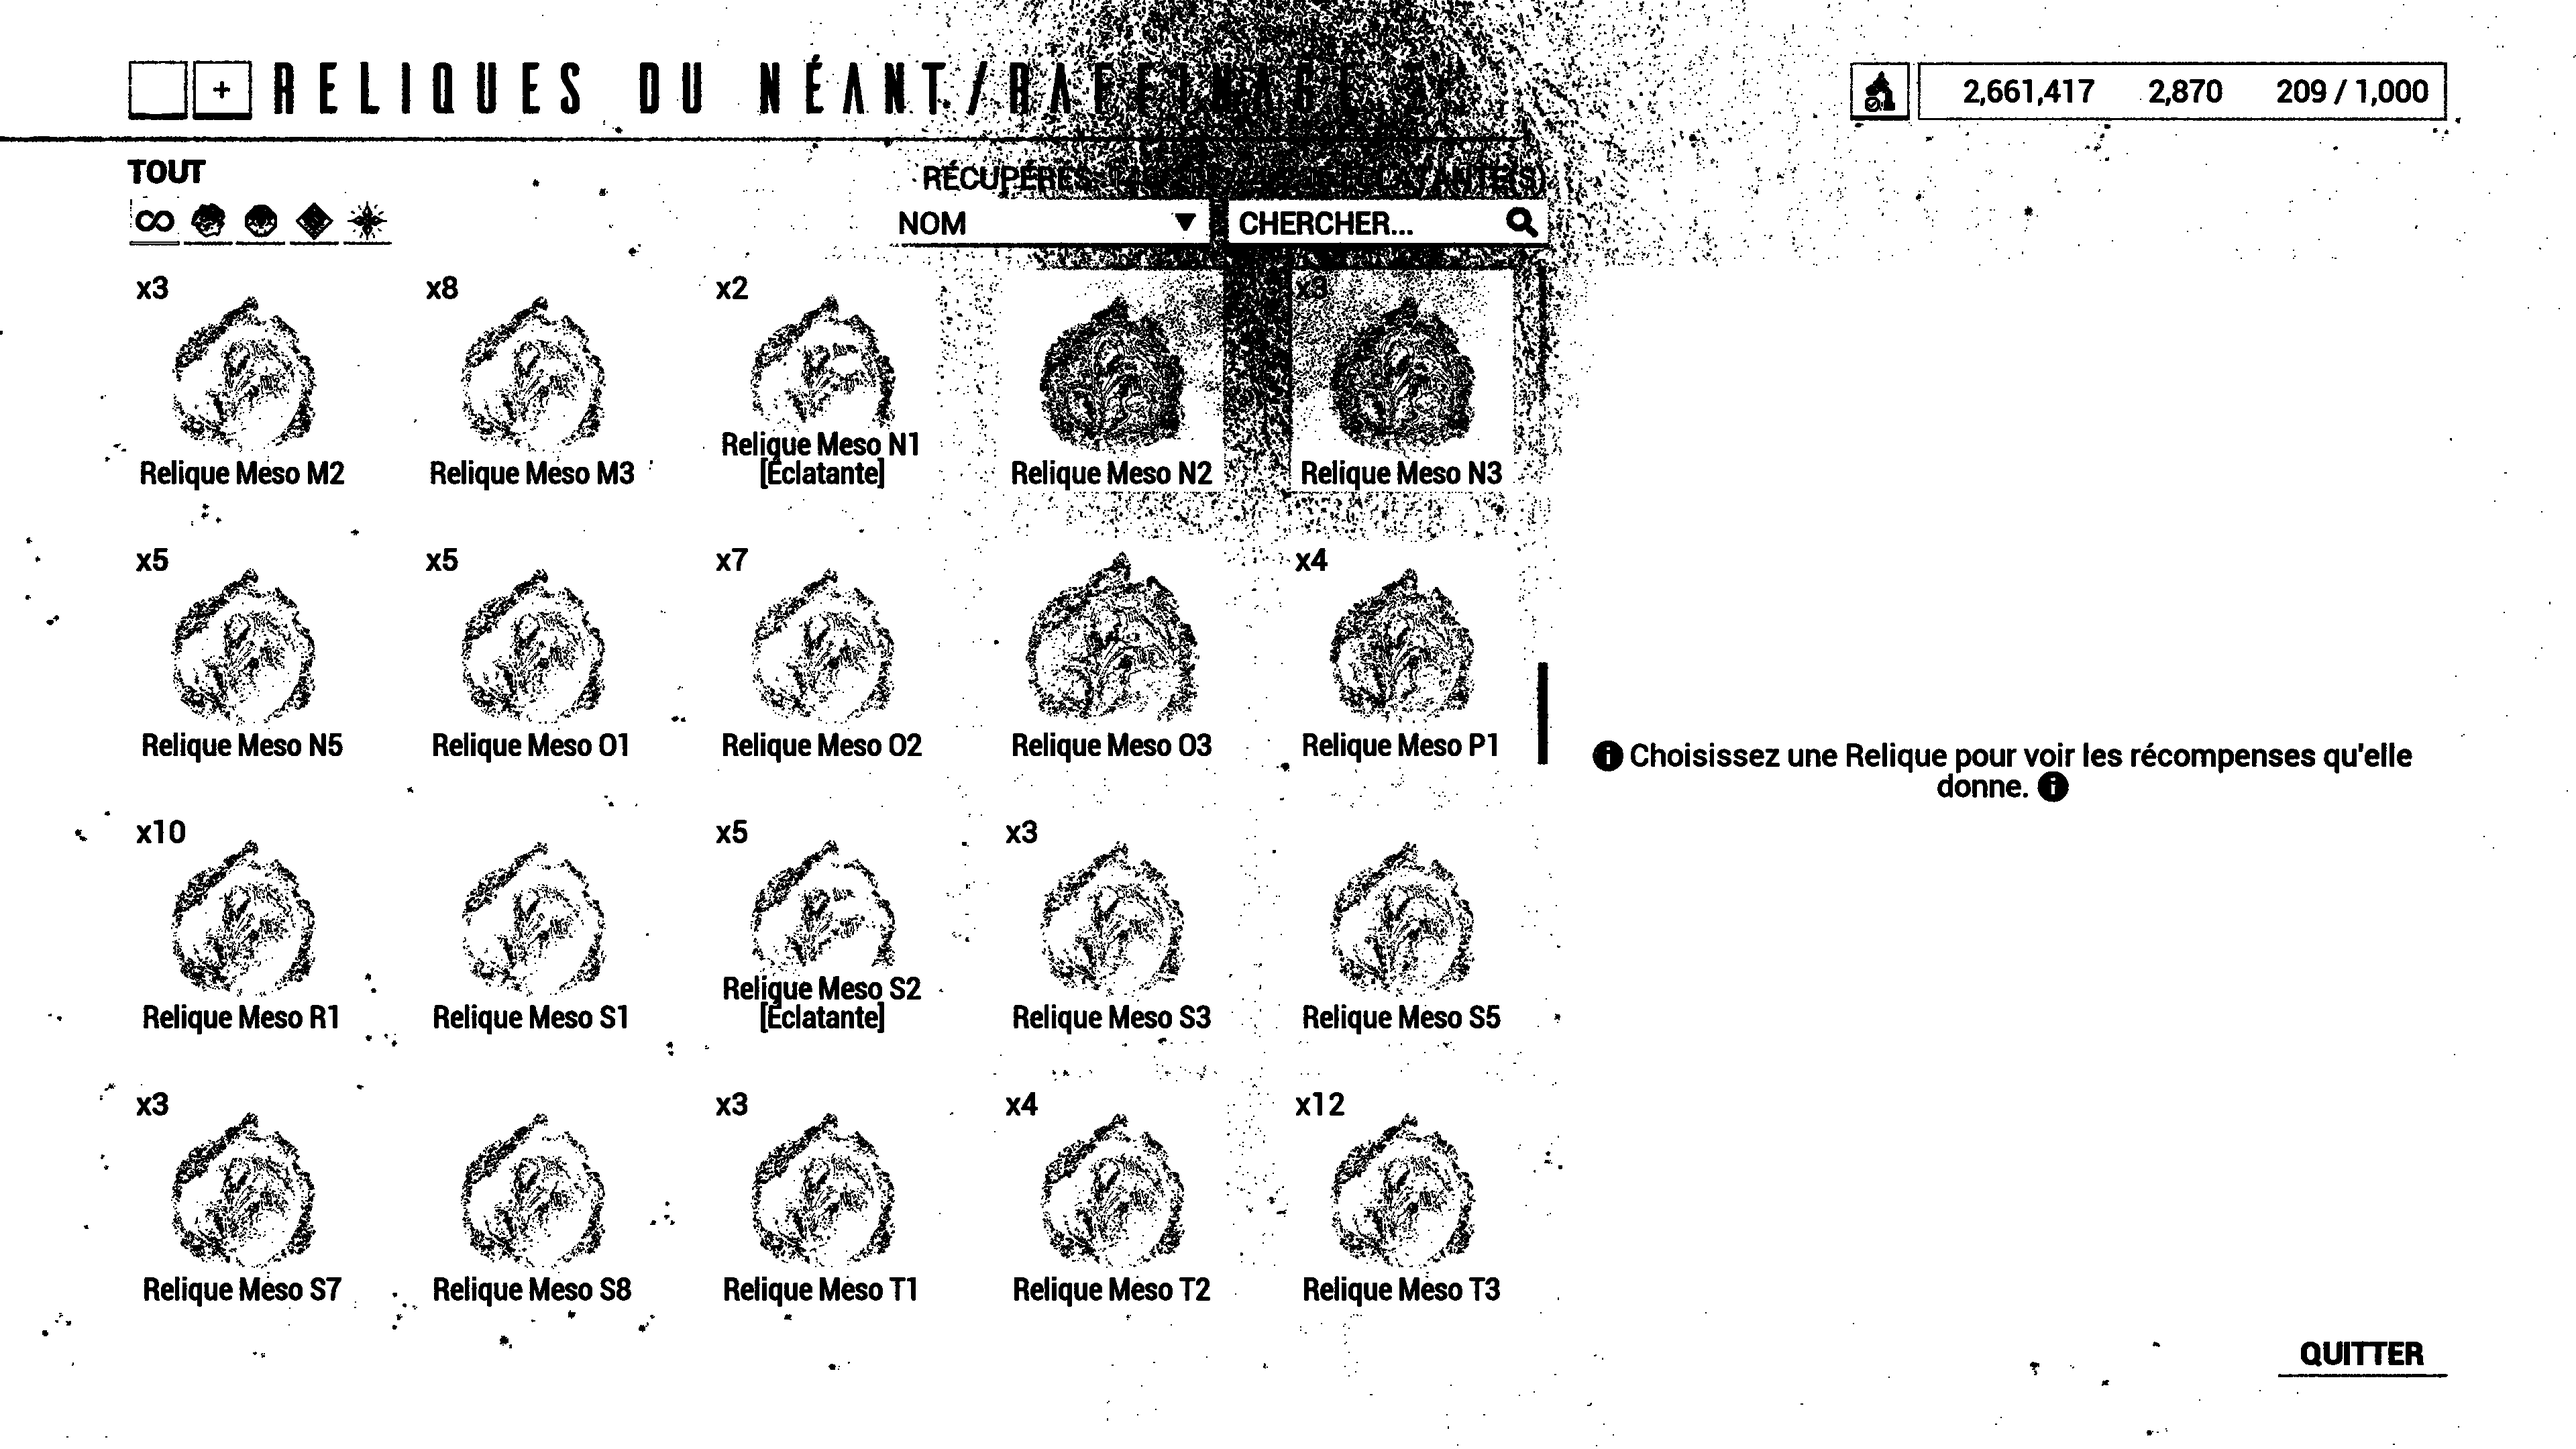
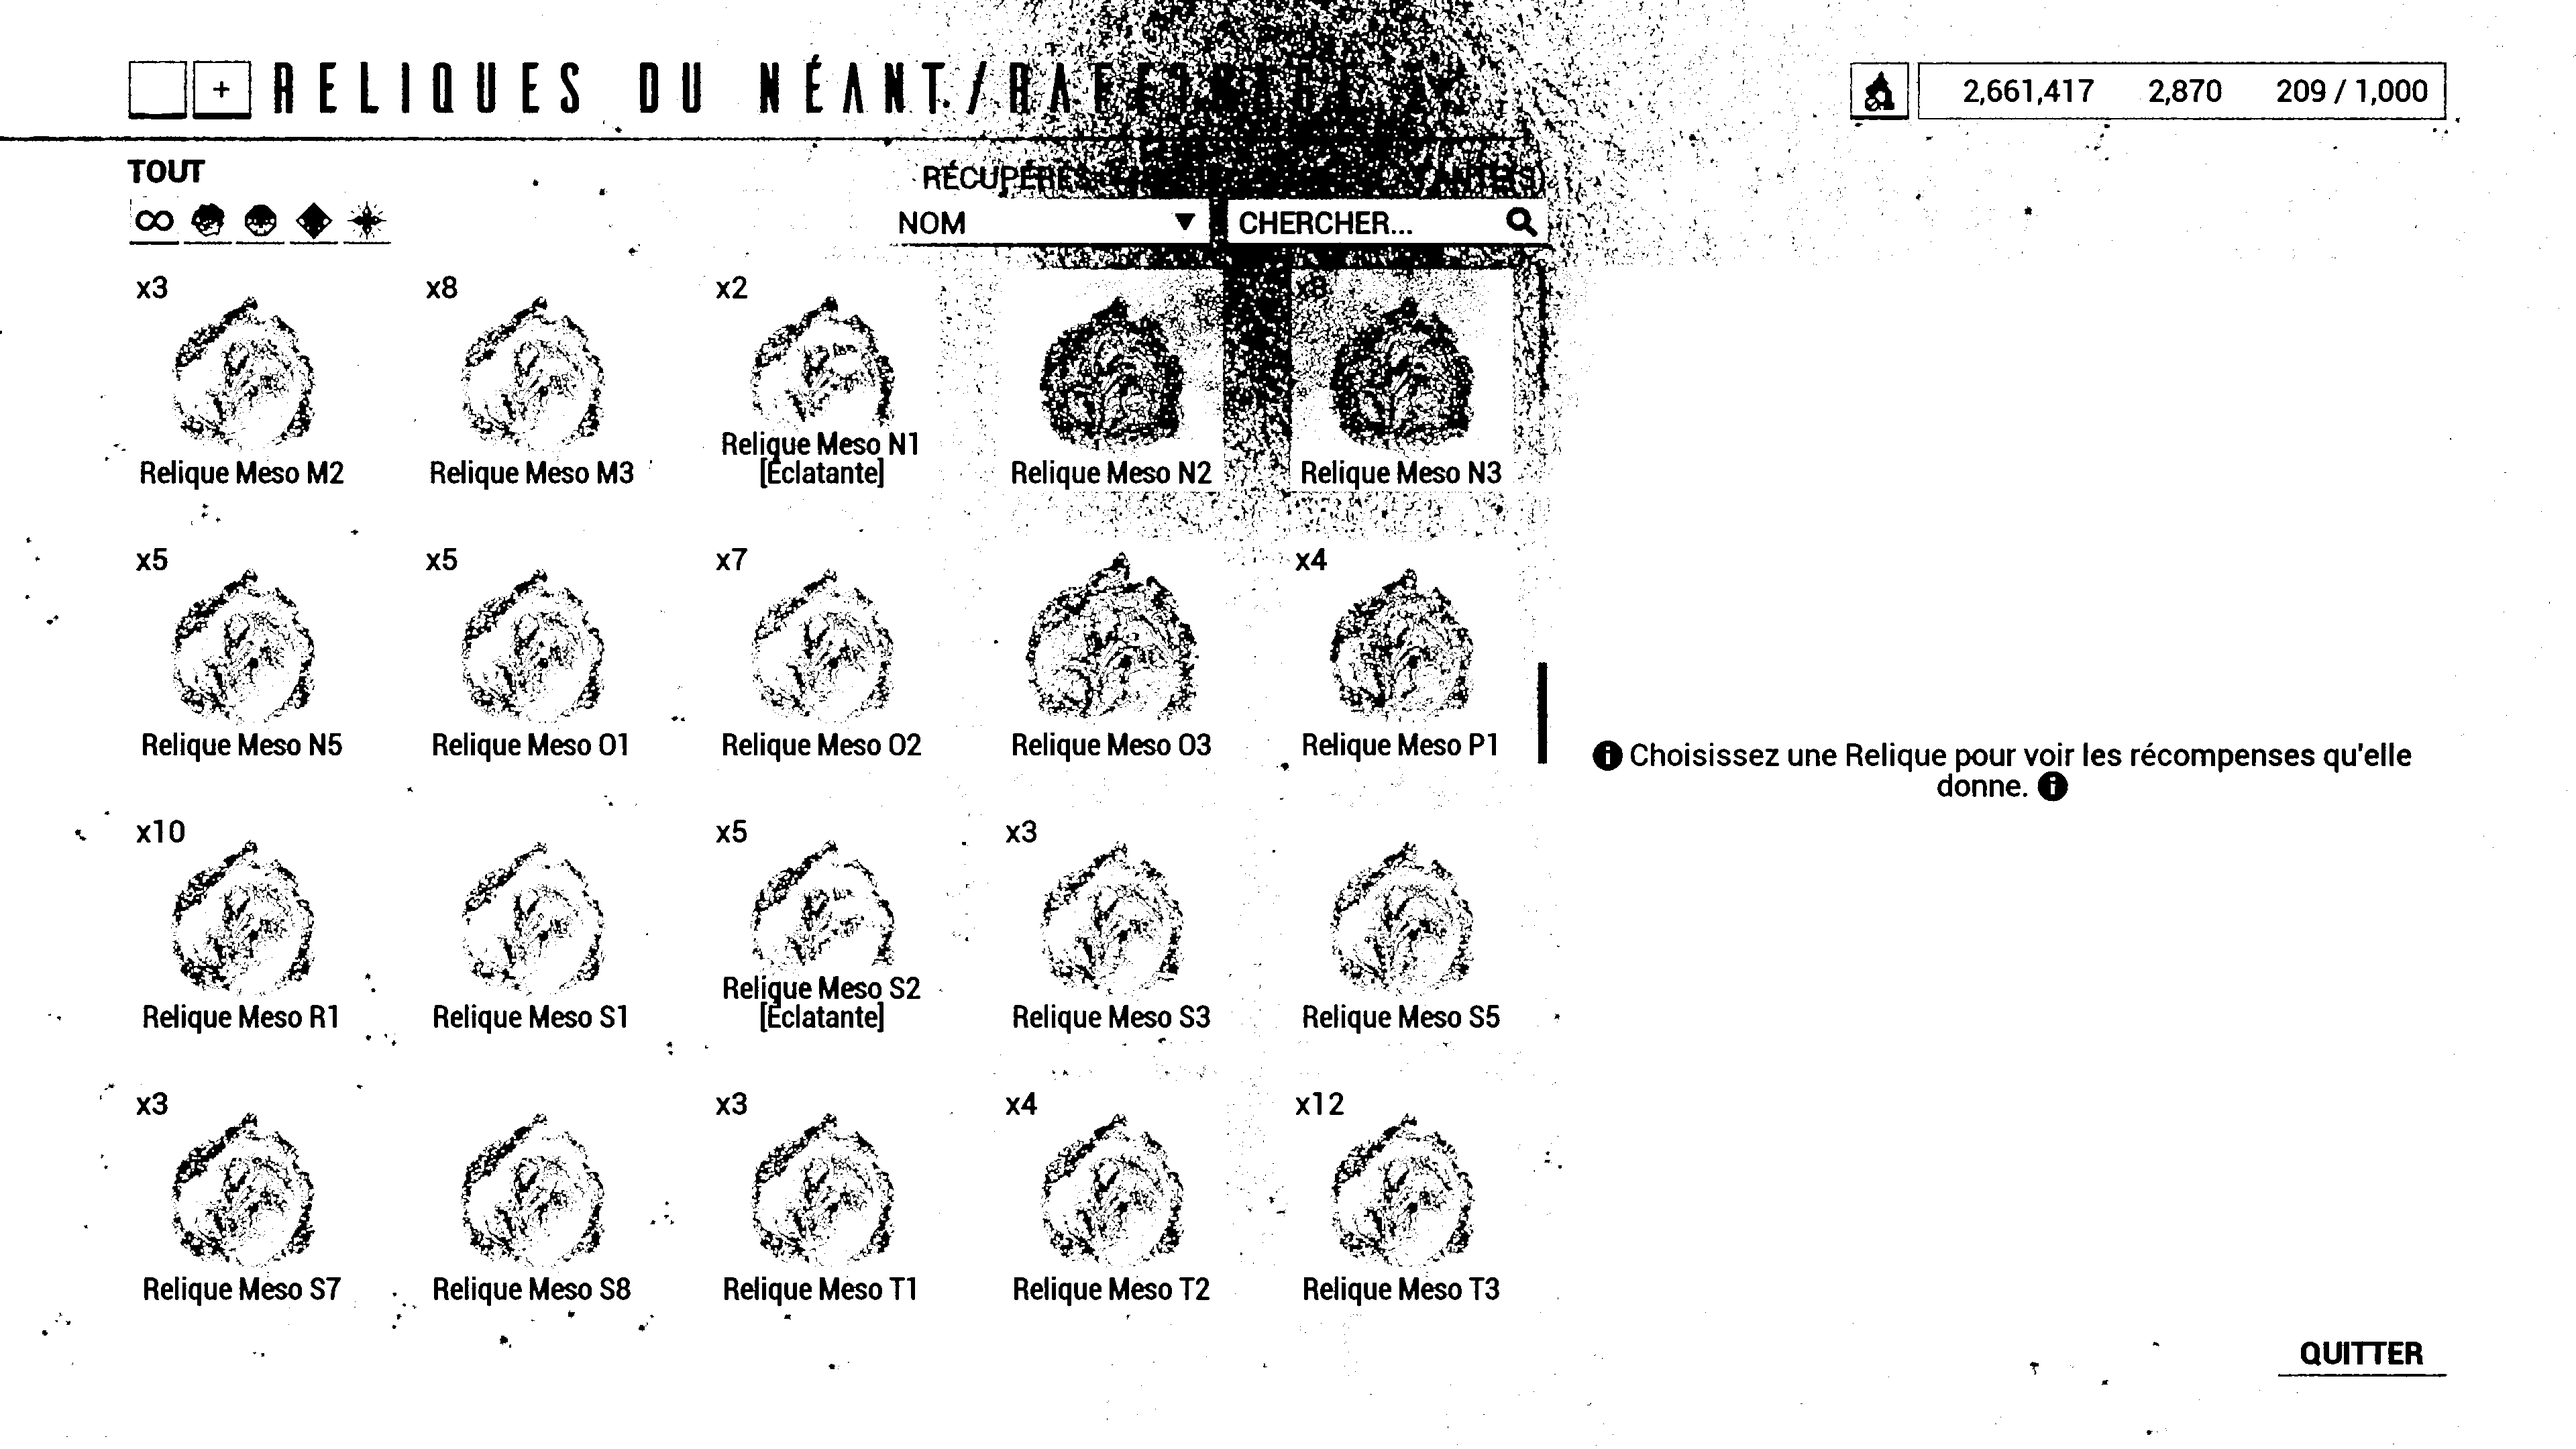
update

diff --git a/check_screens_v2.py b/check_screens_v2.py
@@ -122,8 +122,8 @@ def tresh2(image, theme):
     combinedMask = HueOK & SaturationOK & LightnessOK
     tresh = np.where(combinedMask, 0, 255)
     tresh = np.uint8(tresh)
-    kernel = np.ones((2, 2), np.uint8)
-    tresh = cv2.erode(tresh, kernel, iterations=1)
+    kernel = np.ones((3, 3), np.uint8)
+    tresh = cv2.morphologyEx(tresh, cv2.MORPH_OPEN, kernel)
     
     cv2.imwrite('test_1.png', tresh)
     

diff --git a/ocr.py b/ocr.py
@@ -135,8 +135,8 @@ def get_treshold_2(image, theme):
     combinedMask = HueOK & SaturationOK & LightnessOK
     tresh = np.where(combinedMask, 0, 255)
     tresh = np.uint8(tresh)
-    kernel = np.ones((2, 2), np.uint8)
-    tresh = cv2.erode(tresh, kernel, iterations=1)
+    kernel = np.ones((3, 3), np.uint8)
+    tresh = cv2.morphologyEx(tresh, cv2.MORPH_OPEN, kernel)
     
     return tresh
 
